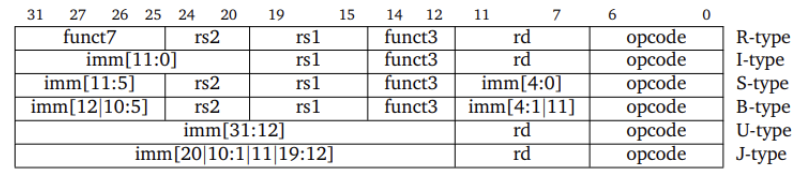
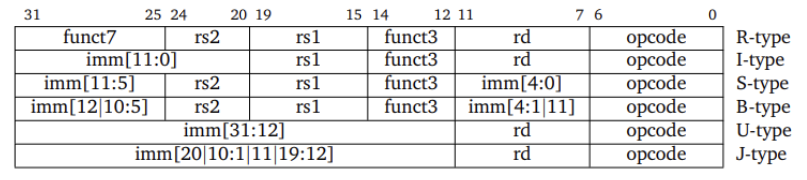
docs: 完成了计组第二章笔记

diff --git a/docs/课程/计算机组成与设计/Chapter2 Instructions.md b/docs/课程/计算机组成与设计/Chapter2 Instructions.md
@@ -18,50 +18,52 @@
     - 例如，为了扩大立即数的范围，牺牲了操作码的位数
 
 
-## 操作数
 
-指令集中的操作数分为三种：
 
-- 寄存器
-- 内存
-- 立即数
+<br>
 
-RISC-V 有 32 个 64 位的通用寄存器，分别用 `x0` 到 `x31` 表示，使用规范为：
+## 寄存器
 
-- `x0` 一直为 0
-- `x1` 返回地址寄存器 (Return address, ra)
-- `x2` 栈指针 (Stack pointer, sp)
-- `x3` 全局指针 (Global pointer, gp)
-- `x4` 线程指针 (Thread pointer, tp)
-- `x5-x7` 临时寄存器 (Temporaries)
-- `x8-x9` 保留寄存器 (Saved)
-- `x10-x17` 参数/结果寄存器 (Arguments/results)
-- `x18-x27` 保留寄存器 (Saved)
-- `x28-x31` 临时寄存器 (Temporaries)
+RISC-V 有 32 个 64 位的通用寄存器，分别用 `x0` 到 `x31` 表示，也可以使用其别名，具体为：
+
+- `x0` 一直为 0 (zero)
+- `x1` 返回地址寄存器 (Return Address, ra)
+- `x2` 栈指针 (Stack Pointer, sp)
+- `x3` 全局指针 (Global Pointer, gp)
+- `x4` 线程指针 (Thread Pointer, tp)
+- `x5-x7` 临时寄存器 (Temporaries, t0-t2)
+- `x8` 保留寄存器 (Frame Pointer/Saved, fp/s0)
+- `x9` 保留寄存器 (Saved, s1)
+- `x10-x17` 参数/结果寄存器 (Arguments, a0-a7)
+- `x18-x27` 保留寄存器 (Saved, s2-s11)
+- `x28-x31` 临时寄存器 (Temporaries, t3-t6)
 
 其中 ra, sp, gp, tp 也是保留寄存器，保留寄存器需要在被调用时将原来的值保存到栈中，并在之后恢复，而临时寄存器可以不管原来的值，直接修改。
 
-内存是字节寻址的，内存地址在指令中的格式为 `offset(base)`，其中 `offset` 为立即数，`base` 为基址寄存器。例如，对于一个双字数组 `A`，`A[8]` 可以表示为 `64(x22)`，其中 `x22` 存储了数组 `A` 的基址。
-
-RISC-V 是小端 (Little endian) 存储的，即数据的低位放在低地址，高位放在高地址，存取数据都是从低往高处理。而且 RISC-V 不要求字对齐，即一个字的起始地址不一定是 4 的倍数。
+此外，RISC-V 还有个 pc (Program Counter) 寄存器，用于存储当前程序将要执行的指令的地址，无法直接访问和修改。
 
 
+
+
+<br>
 
 ## 指令
 
+### 指令类型
+
 RV32I 基础指令集中的指令有以下几种格式：
 
-![](../../assets/co_instruction_format.png)
+![RV32I 指令格式](../../assets/co_instruction_format.png)
 
 各符号的含义为：
 
-- `opcode` 操作码，指明指令的类型
-- `rd` 目标寄存器
-- `funct3` 附加操作码
-- `rs1` 第一个源寄存器
-- `rs2` 第二个源寄存器
-- `funct7` 附加操作码
-- `imm` 立即数
+- `opcode` 操作码，指明指令的类型，占 7 位
+- `rd` 目标寄存器，占 5 位
+- `funct3` 附加操作码，占 3 位
+- `rs1` 第一个源寄存器，占 5 位
+- `rs2` 第二个源寄存器，占 5 位
+- `funct7` 附加操作码，占 7 位
+- `imm` 立即数，占 12 位 或 20 位
 
 ### 算术指令
 
@@ -76,23 +78,230 @@ RV32I 基础指令集中的指令有以下几种格式：
 - `slt rd, rs1, rs2` 设置小于 (Set Less Than)，`rd = (rs1 < rs2) ? 1 : 0`
 - `sltu rd, rs1, rs2` 无符号设置小于 (Set Less Than Unsigned)
 
-上述指令都是 R 型指令，即操作数都在寄存器中。除了减法以外，都可以在后面加上一个 `i` 变成 I 型指令，如 `addi rd, rs1, imm`，并且移位指令只会取立即数的低五位，最多只能移动 31 位。
+上述指令都是 R 型指令，即操作数都在寄存器中。除了减法以外，都可以在后面加上一个 `i` 变成 I 型指令，如 `addi rd, rs1, imm`，且此时移位指令只会取立即数的低五位，最多只能移动 31 位。
 
 取反可以通过与全为 1 的立即数异或实现。
 
-### 内存操作指令
+### 加载指令
 
 从内存中加载数据到寄存器 `rd` 中的操作为 I 型指令：
 
 - `lb rd, offset(rs1)` 加载字节
 - `lh rd, offset(rs1)` 加载半字
 - `lw rd, offset(rs1)` 加载字
+- `ld rd, offset(rs1)` 加载双字
 - `lbu rd, offset(rs1)` 加载无符号字节
 - `lhu rd, offset(rs1)` 加载无符号半字
+- `lwu rd, offset(rs1)` 加载无符号字
+
+此外还有：
+
+- `lr.w/d rd, (rs1)` 读取保留 (Load Reserved)，将 rs1 地址中的内容加载到 rd 中，然后在 rs1 地址上设置保留标记
+- `lui rd, imm` 加载高位立即数 (Load Upper Immediate)，会将 `imm[31:12]` 放在寄存器 rd 的高 20 位，可与 `addi` 配合得到 32 位常数，为 U 型指令
+
+### 存储指令
 
 将寄存器 `rs2` 中的数据存储到内存中的操作为 S 型指令：
 
 - `sb rs2, offset(rs1)` 存储字节
 - `sh rs2, offset(rs1)` 存储半字
 - `sw rs2, offset(rs1)` 存储字
+- `sd rs2, offset(rs1)` 存储双字
+
+此外还有：
+
+- `sc.w/d rd, (rs1), rs2` 条件存储 (Store Conditional)，若 rs1 地址上设置了保留标记，则将 rs2 中的内容存储到 rs1 地址上，并将 rd 置 0，表示成功，否则将 rd 置 1，表示失败
+
+`lr.w/d` 和 `sc.w/d` 都是原子操作，不能在同一个地方同时进行，可以用于防止数据竞争 (Data race)，实现同步机制。
+
+??? example "atomic swap"
+
+    将 `x23` 中的值与 `x20` 对应地址中的值交换：
+
+    ```asm
+    again:
+        lr.d x10, (x20)
+        sc.d x11, (x20), x23 // X11 = status
+        bne x11, x0, again   // branch if store failed
+        addi x23, x10, x0    // X23 = loaded value
+    ```
+
+??? example "Lock 和 Unlock"
+
+    地址 x20 存放着锁，当且仅当 x20 对应的地址未被锁且可以存入数据时，将 1 写入 x20 对应的地址，为其上锁：
+
+    ```asm
+        addi x12, x0, 1      // copy locked value
+    again:
+        lr.d x10, (x20)      // read lock
+        bne x10, x0, again   // check if it is 0 yet
+        sc.d x11, (x20), x12 // attempt to store
+        bne x11, x0, again   // branch if fails
+    ```
+
+    将 0 写入 x20 对应的地址，解开锁：
+
+    ```asm
+    sd x0, 0(x20)   // free lock
+    ```
+
+### 分支指令
+
+分支指令是 B 型指令，用于根据条件跳转：
+
+- `beq rs1, rs2, offset` 若 `rs1 == rs2`，则跳转到 `PC + offset`
+- `bne rs1, rs2, offset` 若 `rs1 != rs2`，则跳转到 `PC + offset`
+- `blt rs1, rs2, offset` 若 `rs1 < rs2`，则跳转到 `PC + offset`
+- `bge rs1, rs2, offset` 若 `rs1 >= rs2`，则跳转到 `PC + offset`
+- `bltu rs1, rs2, offset` 若 `rs1 < rs2`，则跳转到 `PC + offset`
+- `bgeu rs1, rs2, offset` 若 `rs1 >= rs2`，则跳转到 `PC + offset`
+
+在 RISC-V 中，汇编器会将标号转换成相对于当前指令地址的偏移量，从而实现跳转到标号所在位置。
+
+需要注意的是，在 B 型指令中，除了 12 位立即数之外，还有 `imm[0]` 默认为 0，可将寻址范围扩大一倍。
+
+### 跳转指令
+
+- `jal rd, offset` 跳转并链接 (Jump And Link)，`rd = PC + 4`，`PC = PC + offset`，为 J 型指令，立即数有 20 位，最大跳转范围为 1 MB
+- `jalr rd, offset(rs1)` 跳转并链接 (Jump And Link Reg)，`rd = PC + 4`，`PC = rs1 + offset`，为 I 型指令，可以通过寄存器实现更大范围的跳转
+- `auipc rd, offset` Add Upper Immediate to PC，`rd = PC + offset << 12`，为 U 型指令，常与 `jalr` 指令配合使用，
+
+需要注意的是，在 J 型指令中，除了 20 位立即数之外，还有 `imm[0]` 默认为 0，可将寻址范围扩大一倍。
+
+??? example "阶乘函数"
+
+    先来看 C 实现的阶乘函数：
+
+    ```C
+    long long fact(long long n) {
+        if (n < 1) return 1;
+        else return n * fact(n - 1);
+    }
+    ```
+
+    下面是对应的 RISC-V 汇编代码：
+
+    ```asm
+    fact:
+        addi sp, sp, -16 // adjust stack for 2 items
+        sd a0, 0(sp)     // save the argument n
+        sd ra, 8(sp)     // save the return address
+        addi t0, a0, -1  // t0 = n - 1
+        bge t0, x0, L1   // if n >= 1, go to L1
+        addi a0, x0, 1   // return 1 if n < 1
+        addi sp, sp, 16  // recover sp to pop 2 items
+        jalr x0, 0(ra)   // return to caller
+    L1:
+        addi a0, a0, -1  // n >= 1: argument gets n - 1
+        jal ra, fact     // call fact with n - 1
+        add t1, a0, x0   // move the returned value to t1
+        ld a0, 0(sp)     // restore argument n
+        ld ra, 8(sp)     // restore the return address
+        addi sp, sp, 16  // adjust stack pointer to pop 2 items
+        mul a0, a0, t1   // return n * fact(n - 1)
+        jalr x0, 0(ra)   // return to the caller
+    ```
+
+
+
+<br>
+
+## 地址
+
+RISC-V 的寻址方式可以概括为：
+
+- 立即数寻址：`addi x5, x6, 4`
+- 寄存器寻址：`add x5, x6, x7`
+- 基址寻址：`ld x5, 100(x6)`
+- PC 相对寻址：`beq x5, x6, L1`
+
+内存是字节寻址的，内存地址在指令中的格式为 `offset(base)`，其中 `offset` 为立即数，`base` 为基址寄存器。例如，对于一个双字数组 `A`，`A[30]` 可以表示为 `240(x22)`，其中 `x22` 存储了数组 `A` 的基址。
+
+而且，RISC-V 是小端 (Little endian) 存储的，即数据的低位放在低地址，高位放在高地址，存取数据都是从低往高处理。此外，RISC-V 也不要求字对齐，即一个字的起始地址不一定是 4 的倍数。
+
+
+
+
+<br>
+
+## 程序
+
+### 程序的内存布局
+
+当程序运行时，内存从低到高分为以下几个区域：
+
+- 代码段 (Text segment)：存放程序的机器指令
+- 数据段 (Data segment)：存放程序的全局变量
+- 堆 (Heap)：存放动态分配的内存，由程序员手动管理，向高地址增长
+- 栈 (Stack)：存放函数调用的参数和返回地址，由系统自动管理，向低地址增长
+
+### 目标文件
+
+源文件会先经过编译器 (Complier) 变成汇编语言程序，再经过汇编器 (Assembler) 变成目标文件，最后经过链接器 (Linker) 变成可执行文件。
+
+目标文件是二进制文件，包含了机器码和数据，由以下几部分组成（这里以 Linux 的 ELF 格式为例）：
+
+- ELF 文件头 (ELF Header)：包含了目标文件的头信息，如文件名、运行平台、程序入口地址、段表的大小和起始地址等
+- 段表 (Section Header Table)：存放各个段的信息，如段名、段的类型、段的偏移、段的大小等
+- 代码段 (.text)：存放程序的指令
+- 初始化数据段 (.data)：存放已经初始化的全局变量与局部静态变量
+- 未初始化数据段 (.bss)：存放未初始化的全局变量与局部静态变量
+- 符号表 (.symtab)：存放了目标文件中的符号信息，用于将不同文件的变量、函数等链接起来，包含符号名、符号的类型、符号所在段等，其中符号名是一个下标值，代表在字符串表中的偏移量
+- 字符串表 (.strtab)：存放了段名、变量名等字符串数据
+- 重定位表 (.rel.text)：存放了代码段中需要重定位的地址，用于链接器重定位代码段对外部模块的引用，例如 .text 段中对外部 `printf()` 函数的调用
+
+### 链接多文件
+
+链接器会将目标文件中的符号 (Symbol) 解析为地址，将多个目标文件链接成一个可执行文件，大致步骤为：
+
+1. 将目标文件中的代码和数据模块放入内存中
+2. 确定数据和指令标签的地址
+3. 修补内部和外部引用，即将代码段中对外部模块的引用替换为实际地址
+
+当链接文件时，静态链接库 (Static Linking Library) 会被直接复制到可执行文件中，而动态链接库 (Dynamic Linking Library) 则会在程序运行时加载库文件，这样可以减小可执行文件的大小，并且更新库文件后无需重新编译程序。
+
+### 加载程序
+
+加载一个程序的步骤大体为：
+
+1. 读取文件头，确定各个段的大小
+2. 创建虚拟地址空间
+3. 将代码段和初始化数据段复制到内存中，或者设置页表项，以便在需要时进行缺页处理
+4. 在栈上设置参数
+5. 初始化寄存器，包括 sp, fp, gp 等
+6. 跳转到启动程序，将参数复制到 x10, ...，然后调用 main 函数
+7. 当 main 函数返回后，执行系统调用退出程序
+
+
+
+
+<br>
+
+## MIPS
+
+MIPS 是 RISC-V 的商业前身，两者有许多相似之处：
+
+- 相似的基本指令集
+- 都是 32 位指令
+- 都有 32 个通用寄存器，寄存器 0 一直为 0
+- 都有 32 个浮点寄存器
+- 只能通过加载/存储指令访问内存，对所有数据大小使用一致的寻址模式
+
+不过，两者的条件分支有所不同：
+
+- RISC-V 有 `blt`, `bge`, `bltu`, `bgeu` 命令
+- MIPS 得要先使用 `slt`, `sltu`，然后使用 `beq`, `bne` 才能完成分支跳转
+
+
+
+
+<br>
+
+## 扩展指令集
+
+- M: 整数乘除指令扩展
+- A: 原子指令扩展
+- F: 单精度浮点指令扩展
+- D: 双精度浮点指令扩展
+- C: 压缩指令扩展
 
